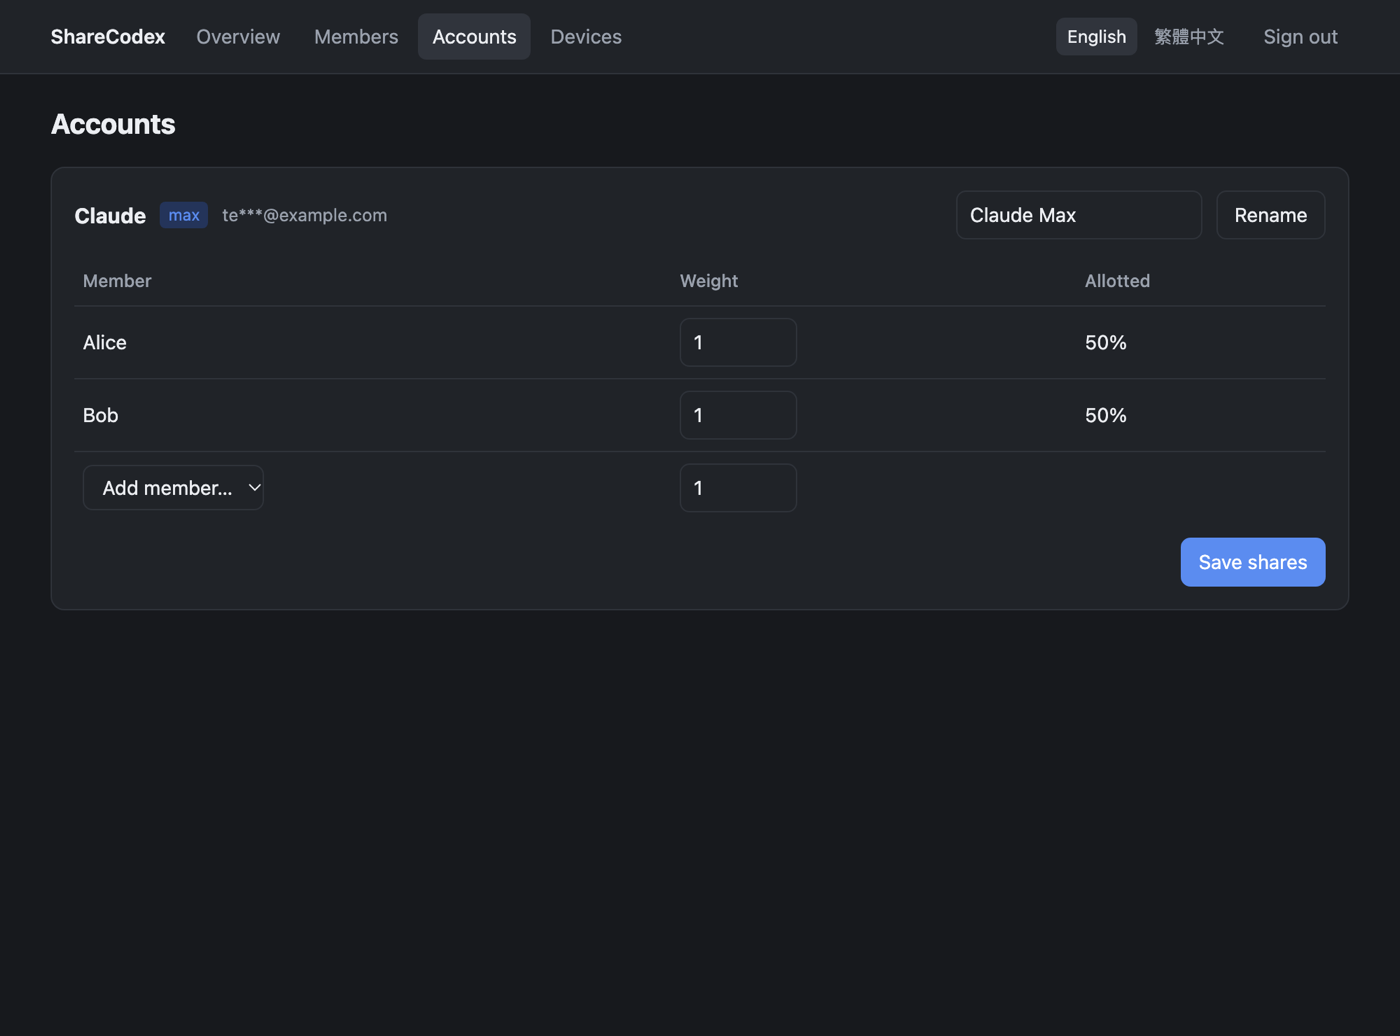
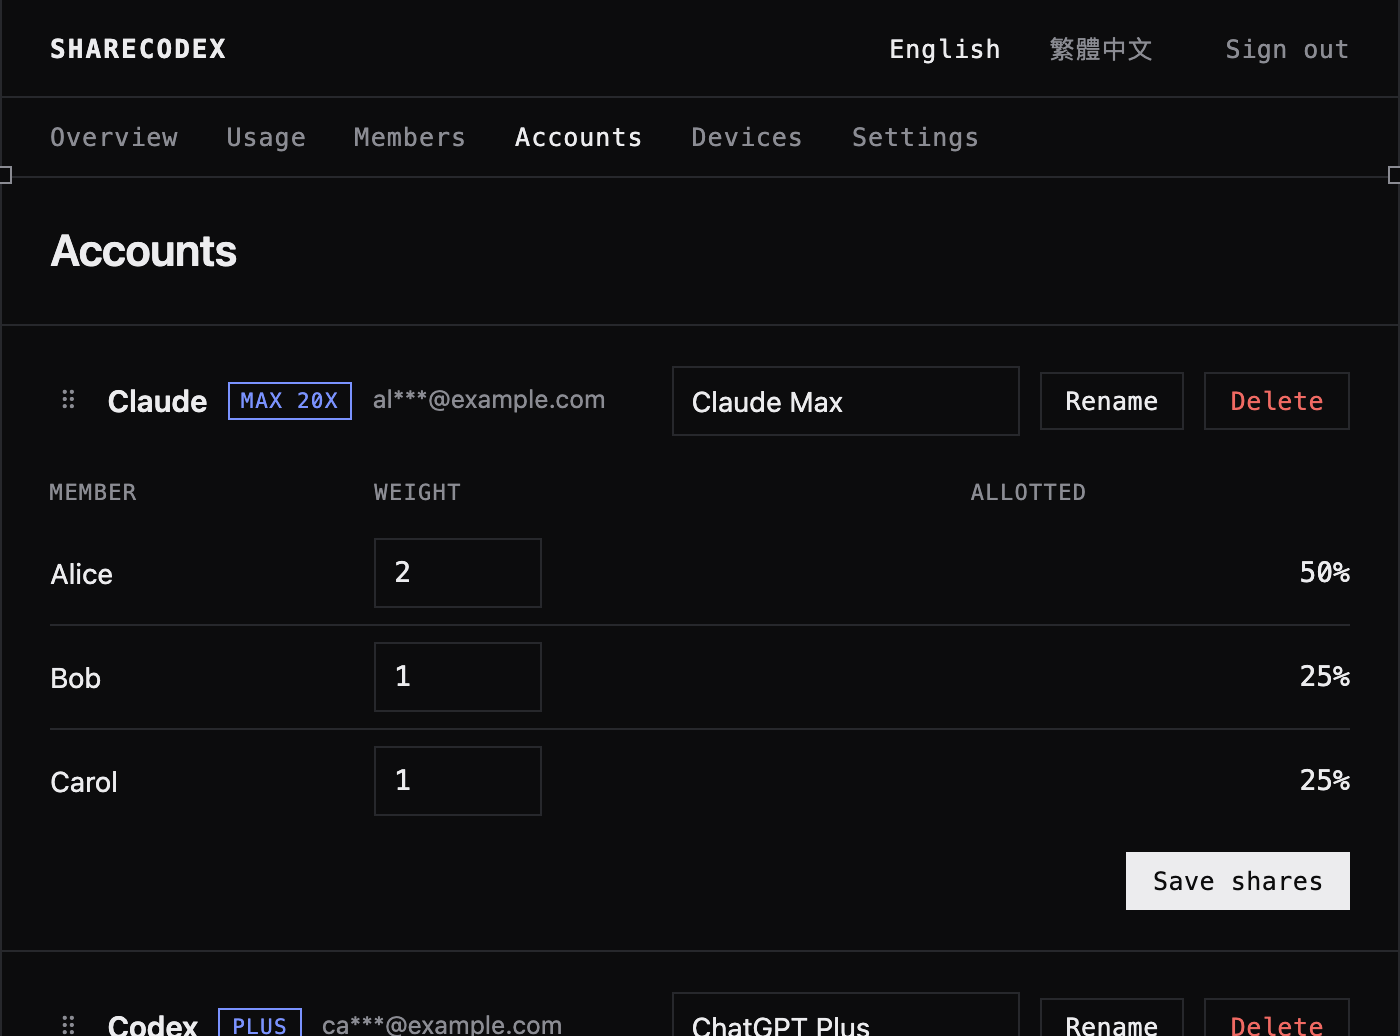
docs: show the redesigned console and the public dashboard

diff --git a/README.md b/README.md
@@ -53,6 +53,11 @@ chat, is not tracked.
   <img src="docs/images/admin-accounts.png" width="49%" alt="Admin console accounts, dark">
 </p>
 
+<p align="center">
+  <img src="docs/images/dashboard.png" width="49%" alt="Public dashboard, dark">
+  <img src="docs/images/dashboard-usage.png" width="49%" alt="Public dashboard usage">
+</p>
+
 ## What it shows
 
 ### Your own usage
